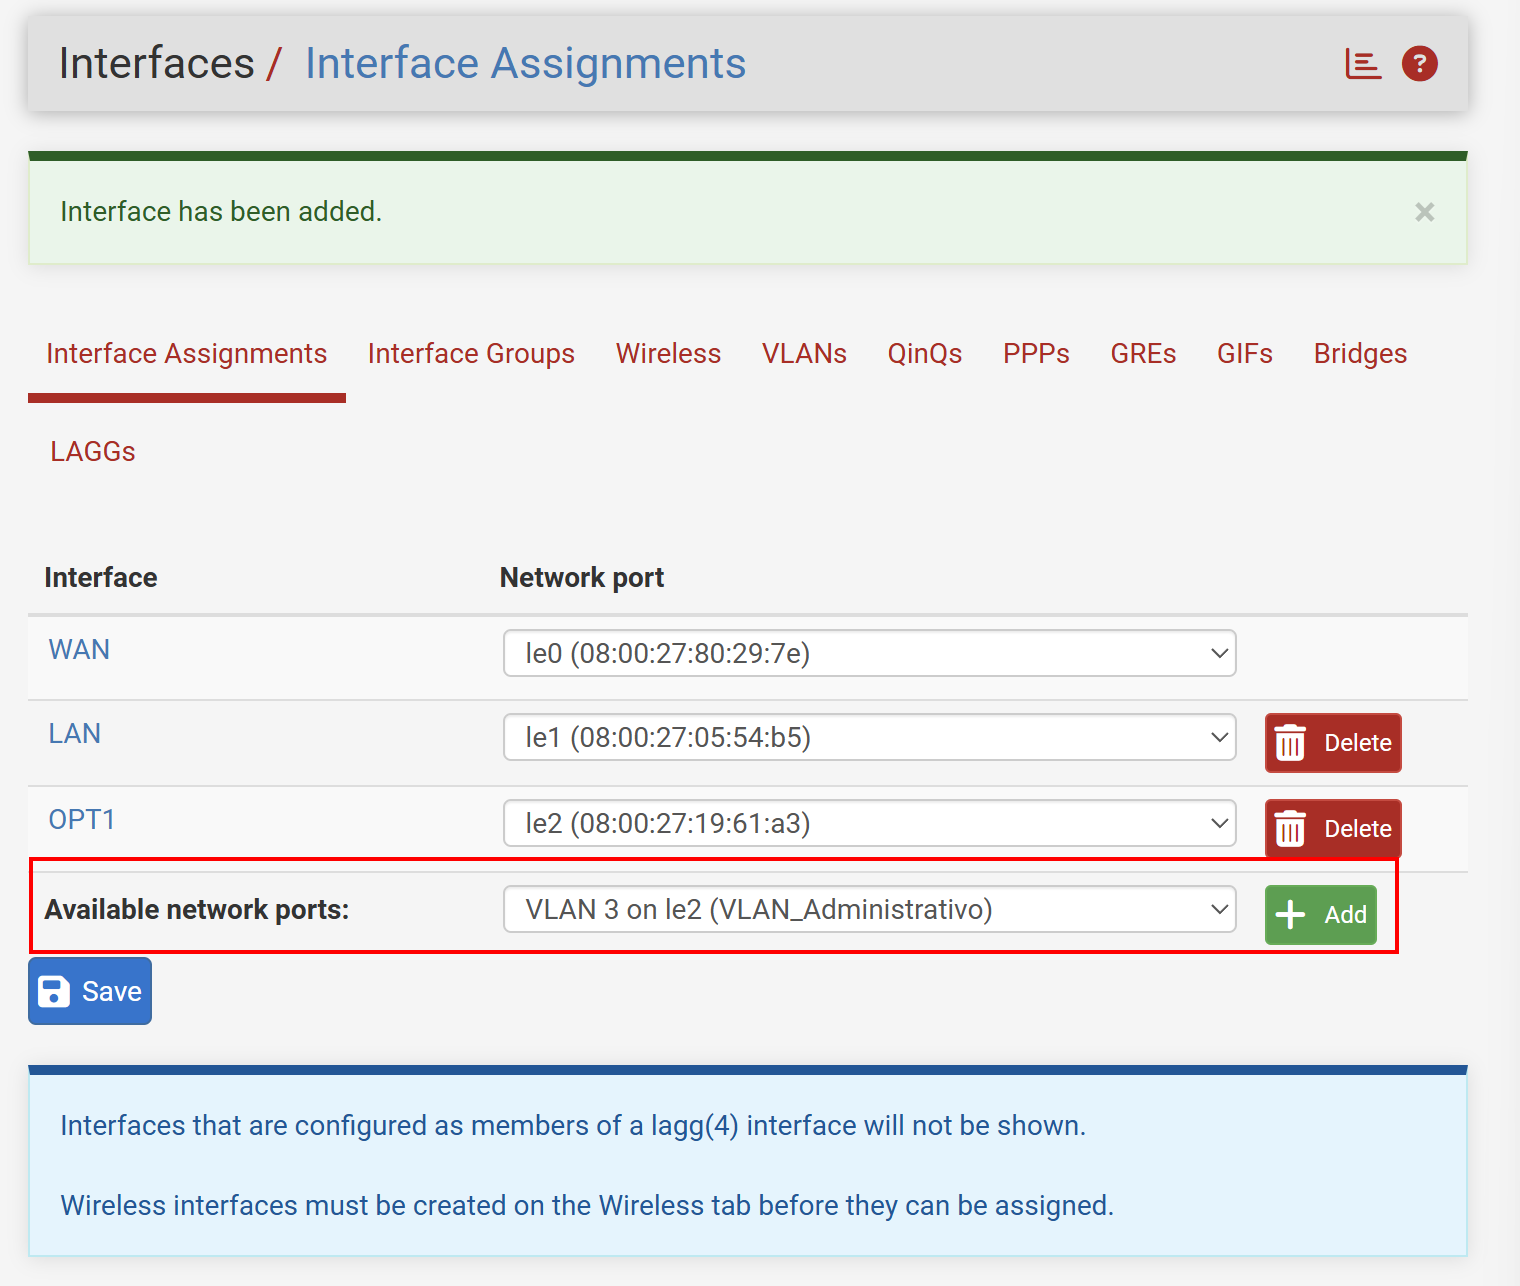
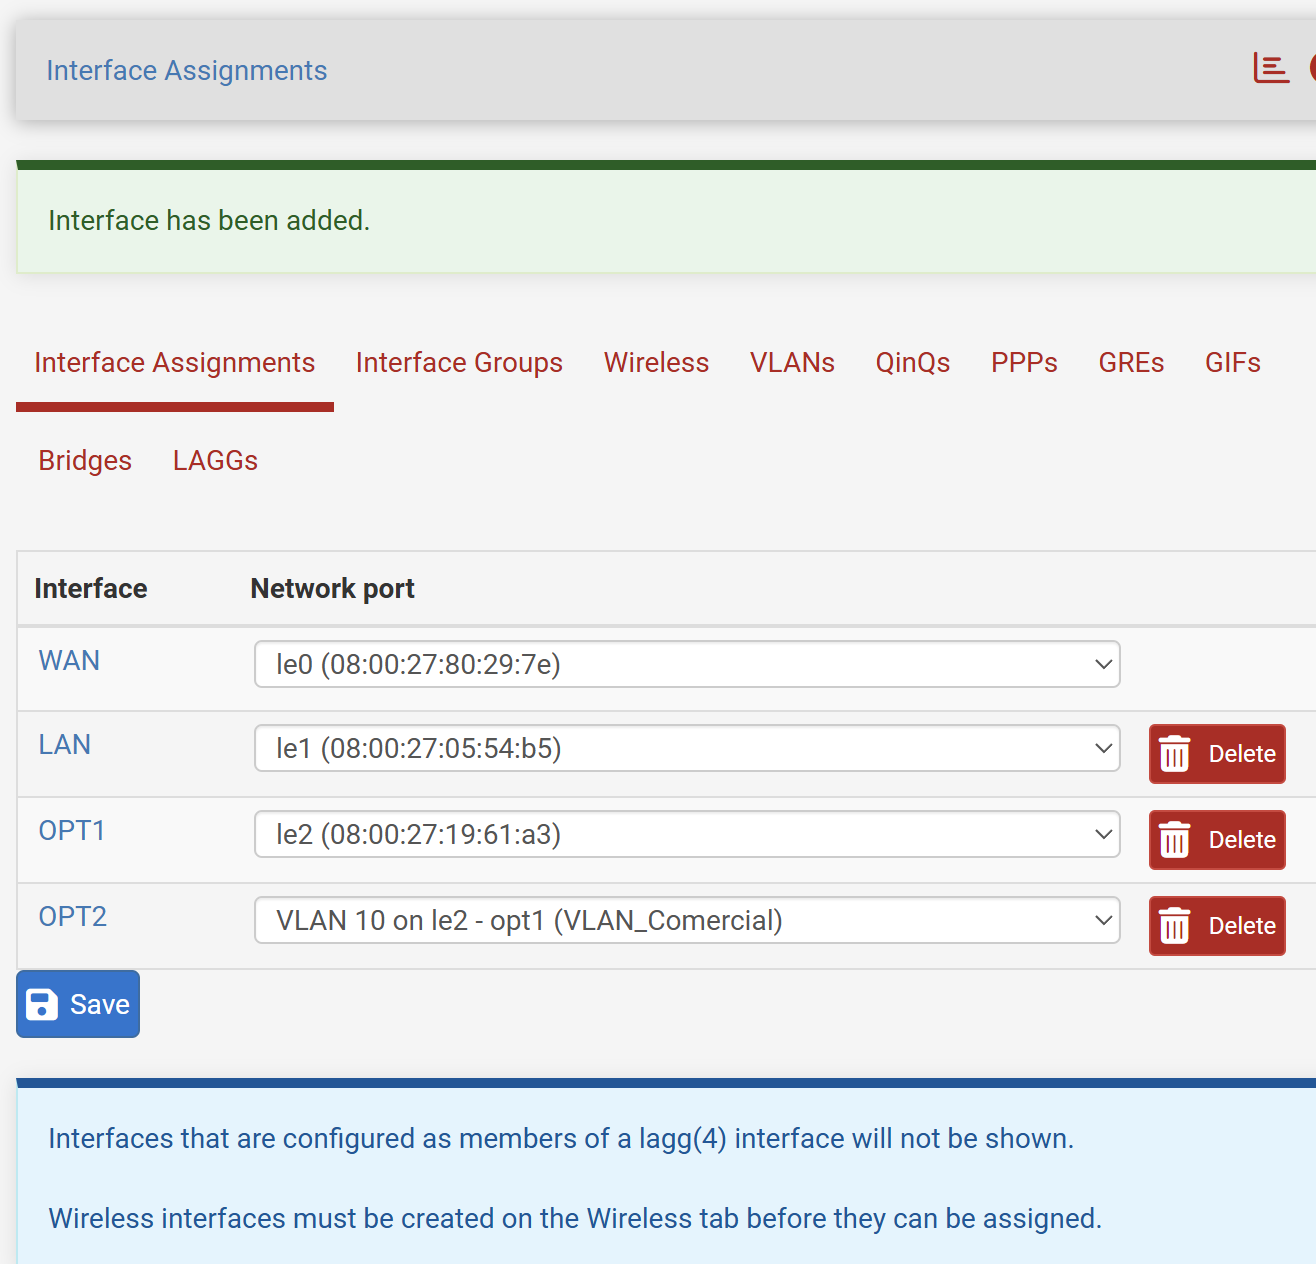
crear y asignar VLANs

diff --git a/projects/pfsense-hardening/pfSense.md b/projects/pfsense-hardening/pfSense.md
@@ -75,7 +75,7 @@ Accedemos al panel administrativo escribiendo en el navegador la IP asignada al 
   <img src="img/8.png" alt="Creación de Vlans" width="500px"/>
 </p>
 
-Comenzamos creando la VLAN del departamento de administración. Utilizamos le2 como la interfaz parent ya que  es la tarjeta de red física(Teoricamente) que estará conectada al switch en modo trunk. Solo esa interfaz puede enviar y recibir los paquetes con etiquetas VLAN (802.1Q).
+Comenzamos creando la VLAN del departamento Comercial. Utilizamos le2 como la interfaz parent ya que  es la tarjeta de red física(Teoricamente) que estará conectada al switch en modo trunk. Solo esa interfaz puede enviar y recibir los paquetes con etiquetas VLAN (802.1Q).
 
 <p>
   <img src="img/9.png" alt="Creación de Vlans" width="500px"/>
@@ -90,11 +90,11 @@ A continuación se verá de la siguiente manera.
   <img src="img/11.png" alt="Creación de Vlans" width="500px"/>
 </p>
 
-De la misma forma, pfSense nos está avisando que también tenemos disponible un nuevo **network port** perteneciente a la VLAN 3 que creamos anteriormente para el departamento de administración. La añadimos. Al darle a Add:
+De la misma forma, pfSense nos está avisando que también tenemos disponible un nuevo **network port** perteneciente a la VLAN 10 que creamos anteriormente para el departamento Comercial. La añadimos. Al darle a Add:
 
-- pfSense tomará esa VLAN 3 y la añadirá a la lista de interfaces asignadas.
+- pfSense tomará esa VLAN 10 y la añadirá a la lista de interfaces asignadas.
 - Automáticamente se creará OPT2 (o el siguiente número disponible).
-- A partir de ahí, podrás entrar en Interfaces > OPT2, habilitarla, darle un nombre (ej. “Administrativo”), asignarle IP, máscara, DHCP, etc.
+- A partir de ahí, podrás entrar en Interfaces > OPT2, habilitarla, darle un nombre (ej. “Comercial”), asignarle IP, máscara, DHCP, etc.
 - Asignarla en Interface Assignments es lo que la convierte en una interfaz lógica que puedes administrar como si fuera una red independiente.
 <p>
   <img src="img/12.png" alt="Creación de Vlans" width="500px"/>
@@ -102,17 +102,25 @@ De la misma forma, pfSense nos está avisando que también tenemos disponible un
 
 pfSense lo refleja así:
 - OPT2 → es la interfaz lógica recién creada.
-- VLAN 3 on le2 – opt1 (VLAN_Administrativo) → te está diciendo:
-  - Esta interfaz lógica (OPT2) corresponde a la VLAN 3.
+- VLAN 10 on le2 – opt1 (VLAN_Comercial) → te está diciendo:
+  - Esta interfaz lógica (OPT2) corresponde a la VLAN 10.
   - El parent de esa VLAN es la tarjeta física le2.
   - El texto “opt1” aparece porque le2 ya estaba asignada como OPT1, y sobre ella se montó la VLAN.
-  - “VLAN_Administrativo” es la descripción que se puso al crear la VLAN.
-
+  - “VLAN_Comercial” es la descripción que se puso al crear la VLAN.
+<p>
   <img src="img/13.png" alt="Creación de Vlans" width="500px"/>
 </p>
 
 **Realizaremos los mismos pasos por cada VLAN que tengamos.**
+**Creación**
+<p>
+  <img src="img/14.png" alt="Creación de Vlans" width="500px"/>
+</p>
 
+**Asignación**
+<p>
+  <img src="img/15.png" alt="Creación de Vlans" width="500px"/>
+</p>
 
 ### 3.4 Activar el servicio de DHCP para las redes WiFi
 
